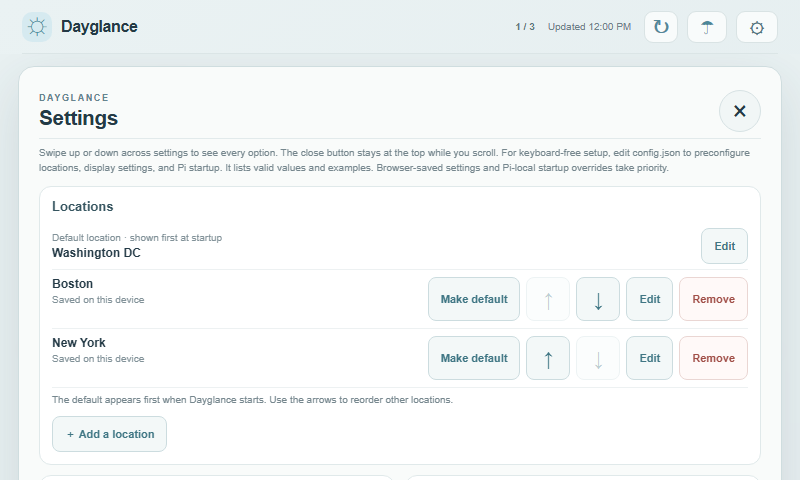
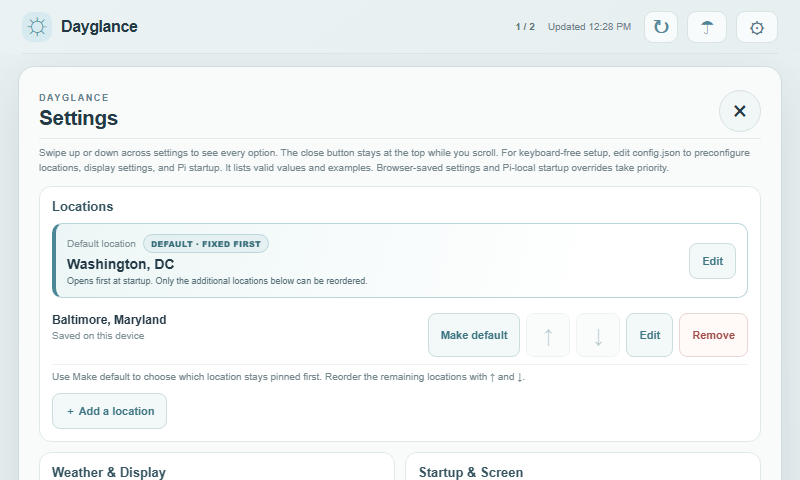
ui: clarify default location ordering

Changed region(s): [[0.0625, 0.4688, 0.6875, 1.0], [0.7188, 0.4688, 0.9375, 0.7812], [0.5, 0.9375, 0.9375, 1.0]]

diff --git a/index.html b/index.html
@@ -130,7 +130,7 @@
           <div class="settings-grid">
             <section class="settings-section location-settings">
               <h2>Locations</h2>
-              <div class="default-location-row"><div><span class="settings-label">Default location · shown first at startup</span><strong id="settings-default-name">—</strong></div><button class="small-action" id="settings-edit-default" type="button">Edit</button></div>
+              <div class="default-location-row"><div class="default-location-main"><div class="default-location-label"><span class="settings-label">Default location</span><span class="default-location-badge">DEFAULT · FIXED FIRST</span></div><strong id="settings-default-name">—</strong><small class="default-location-help">Opens first at startup. Only the additional locations below can be reordered.</small></div><button class="small-action" id="settings-edit-default" type="button">Edit</button></div>
               <div id="settings-locations" class="settings-location-list"></div>
               <button class="small-action add-setting-location" id="settings-add-location" type="button">＋ Add a location</button>
             </section>

diff --git a/styles.css b/styles.css
@@ -47,4 +47,10 @@
 html *{scrollbar-width:none!important;-ms-overflow-style:none!important}
 html *::-webkit-scrollbar{display:none!important;width:0!important;height:0!important}
 @media(max-height:520px){.setup-card .search-results{max-height:90px}}
+.default-location-row{margin:4px 0 8px;padding:10px 11px;border:1px solid #b9d5da;border-left:4px solid #4c8798;border-radius:10px;background:linear-gradient(105deg,#edf6f6 0%,#fff 78%)}
+.default-location-main{flex:1;display:grid;gap:4px;min-width:0}
+.default-location-label{display:flex;flex-wrap:wrap;align-items:center;gap:7px}
+.default-location-badge{padding:3px 7px;border:1px solid #bdd6db;border-radius:999px;background:#e4f0f1;color:#356a77;font-size:8px;font-weight:800;letter-spacing:.04em;white-space:nowrap}
+.default-location-row strong{font-size:14px}
+.default-location-help{color:#58717a;font-size:9px;line-height:1.35}
 

diff --git a/app.js b/app.js
@@ -542,7 +542,7 @@ function renderSettings(){
     actions.append(makeDefault,earlier,later,edit,remove);row.append(label,actions);holder.append(row);
   });
   if(locations.length<2){const empty=document.createElement('p');empty.className='settings-help';empty.textContent='No additional locations have been added.';holder.append(empty)}
-  else {const hint=document.createElement('p');hint.className='settings-help location-order-help';hint.textContent='The default appears first when Dayglance starts. Use the arrows to reorder other locations.';holder.append(hint)}
+  else {const hint=document.createElement('p');hint.className='settings-help location-order-help';hint.textContent='Use Make default to choose which location stays pinned first. Reorder the remaining locations with ↑ and ↓.';holder.append(hint)}
 }
 function openSettings(){
   if(!setup.hidden)return;

diff --git a/docs/guides/CONFIGURATION.md b/docs/guides/CONFIGURATION.md
@@ -59,7 +59,7 @@ Each configured location needs a stable, unique `id` and can provide:
 
 `defaultLocation` is the first page shown on startup. Entries in `locations` are additional pages, displayed in their array order on a fresh browser profile. Set `defaultLocation` to `null` and `locations` to `[]` to require first-launch setup. After changing the file, reload Dayglance. The browser clears cached forecasts for changed configured locations and resolves them again.
 
-In **Settings → Locations**, select **Make default** to choose any saved city as the first page at startup, then use the up/down buttons to order the other cities. These choices are saved in that browser profile and take precedence over the JSON order there. For keyboard-free setup, arrange the default and `locations` array in `config.json`; a fresh browser uses that order. No service restart is needed for Settings changes.
+In **Settings → Locations**, the highlighted **Default · Fixed first** card identifies the city that opens first at startup; its fixed position explains why it has no reorder arrows. Select **Make default** on another saved city to move it into that position, then use the up/down buttons to order the remaining cities. These choices are saved in that browser profile and take precedence over the JSON order there. For keyboard-free setup, arrange the default and `locations` array in `config.json`; a fresh browser uses that order. No service restart is needed for Settings changes.
 
 Preference values are:
 

diff --git a/docs/operations/DEVPI_TOUCH_SCROLL_LOCATION_ORDER_2026-10-16.md b/docs/operations/DEVPI_TOUCH_SCROLL_LOCATION_ORDER_2026-10-16.md
@@ -26,4 +26,10 @@ Browser simulation is not a physical-touch test. The actual DevPi panel swipe an
 - [PR #8 — precipitation radar and configurable timeouts](https://github.com/mderdouri/Dayglance/pull/8): open; GitHub Verify check passed.
 - [PR #9 — touchscreen scrolling and location management](https://github.com/mderdouri/Dayglance/pull/9): open and stacked on PR #8; local checks passed. GitHub CI is configured for pull requests targeting `main`, so it will run after PR #8 merges and PR #9 is retargeted to `main`.
 
+## Default-location clarity follow-up — 2026-10-16
+
+The location settings card now highlights the default with a **DEFAULT · FIXED FIRST** badge and explains that it opens first at startup, while only the additional locations can be reordered. The order helper clarifies that **Make default** changes the pinned first city. The screenshot linked above was refreshed at 800×480 using an isolated headless Chrome profile containing sample Washington, DC and Baltimore locations.
+
+The browser check confirmed the default card displayed Washington, DC, one additional location row was present, and no reorder arrows appeared on the default card. The DevPi refresh and resulting remote asset hashes, HTTP checks, service state, and configuration-preservation checks are recorded in the canonical Pi inventory after deployment.
+
 Machine-readable details: [DEVPI_TOUCH_SCROLL_LOCATION_ORDER_2026-10-16.json](DEVPI_TOUCH_SCROLL_LOCATION_ORDER_2026-10-16.json).
